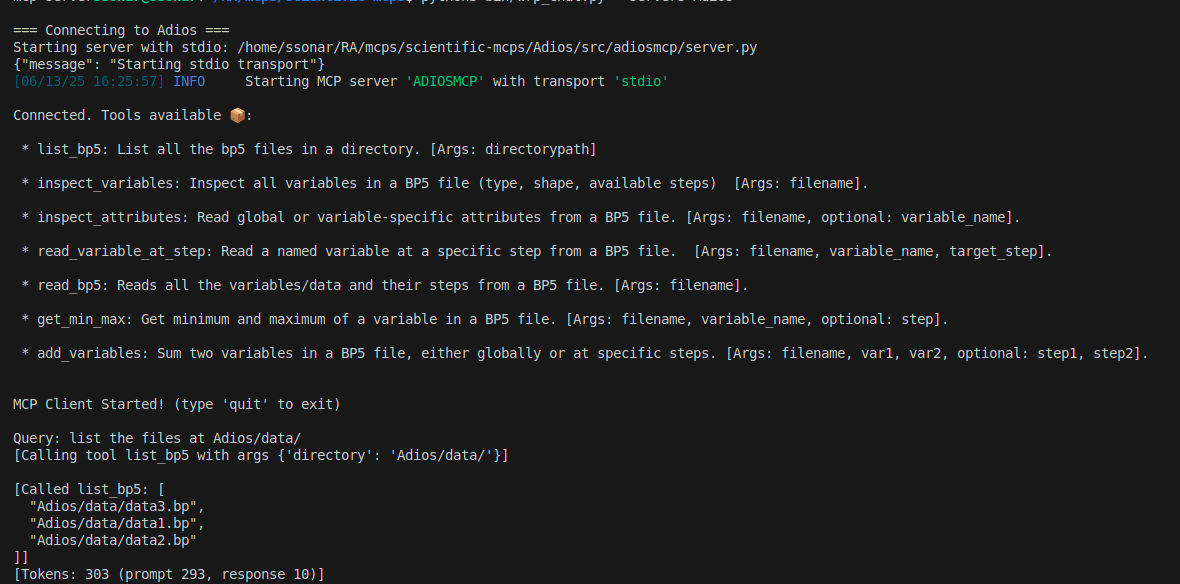
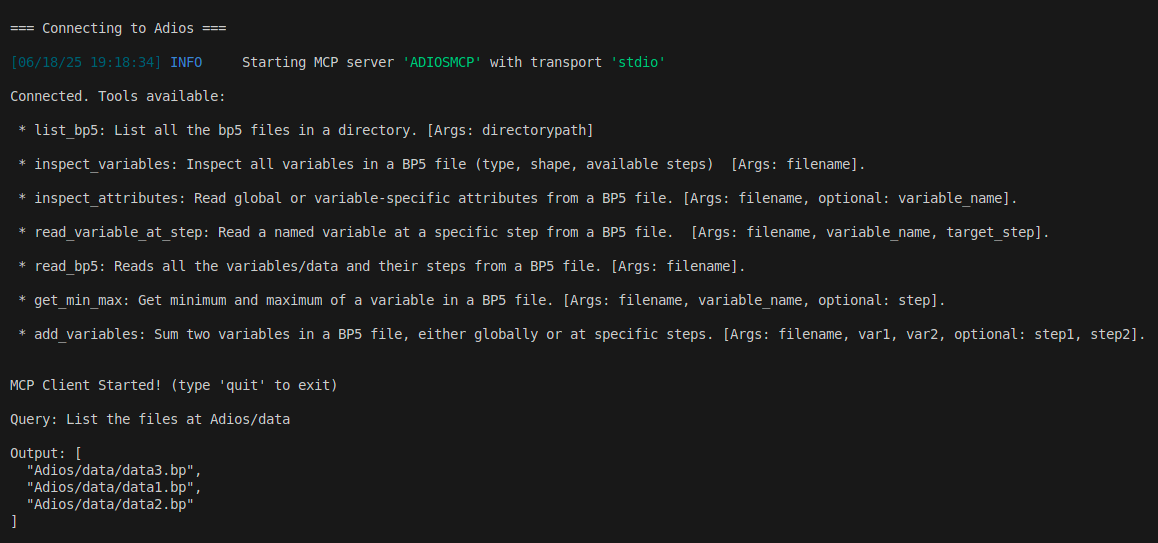
Updated screenshots  and examples

diff --git a/Adios/docs/example_uses.md b/Adios/docs/example_uses.md
@@ -7,11 +7,11 @@
 1. To List all the bp5 files in a directory. [Args: directorypath]
 
 - prompt: list the files at Adios/data
-- Answer: [Called list_bp5: [
+- Answer: [
   "Adios/data/data3.bp",
   "Adios/data/data1.bp",
   "Adios/data/data2.bp"
-]]
+]
 
 Sample:
 ![](https://github.com/iowarp/scientific-mcps/blob/main/Adios/assets/list_files.png)
@@ -20,14 +20,14 @@ Sample:
 
 - prompt: how many steps do we have in Adios/data/data2.bp
 - Answer: 
-[Called inspect_variables: {
+Output: {
   "greeting": {
     "AvailableStepsCount": "1",
     "Shape": "",
     "SingleValue": "true",
     "Type": "string"
   }
-}]
+}
 
 Sample:
 ![](https://github.com/iowarp/scientific-mcps/blob/main/Adios/assets/steps.png) 
@@ -36,7 +36,7 @@ Sample:
 
 - prompt: inspect the attributes from variable pressure in Adios/data/data1.bp
 - Answer: 
-[Called inspect_attributes: {
+Output: {
   "unit": {
     "value": [
       "Pa"
@@ -44,7 +44,7 @@ Sample:
     "Type": "string",
     "Elements": "1"
   }
-}]
+}
 
 Sample:
 ![](https://github.com/iowarp/scientific-mcps/blob/main/Adios/assets/attributes.png)  
@@ -53,9 +53,9 @@ Sample:
 
 - prompt: Read the value of variable physical_time at step 4 in Adios/data/data1.bp
 - Answer: 
-[Called read_variable_at_step: {
+Output: {
   "value": 0.04
-}]
+}
 
 Sample:
 ![](https://github.com/iowarp/scientific-mcps/blob/main/Adios/assets/read_steps.png)
@@ -64,7 +64,7 @@ Sample:
 
 - prompt: Read bp file at Adios/data/data3.bp
 - Answer: 
-[Called read_bp5: {
+Output: {
   "Nx": {
     "Step:0": 10
   },
@@ -82,7 +82,7 @@ Sample:
       9.0
     ]
   }
-}]
+}
 
 Sample:
 ![](https://github.com/iowarp/scientific-mcps/blob/main/Adios/assets/read_bp5.png)
@@ -91,10 +91,10 @@ Sample:
 
 - prompt: Get the minimum value of variable physical_time from Adios/data/data1.bp
 - Answer: 
-[Called get_min_max: {
+Output: {
   "min": 0.0,
   "max": 0.04
-}]
+}
 
 Sample:
 ![](https://github.com/iowarp/scientific-mcps/blob/main/Adios/assets/minmax.png)
@@ -105,9 +105,9 @@ Sample:
 
 - prompt: Add the value of variable physical_time at step 2 and variable nproc at step 0 in Adios/data/data1.bp
 - Answer: 
-[Called add_variables: {
+Output: {
   "sum": 2.02
-}]
+}
 
 Sample:
 ![](https://github.com/iowarp/scientific-mcps/blob/main/Adios/assets/add_variables.png)
